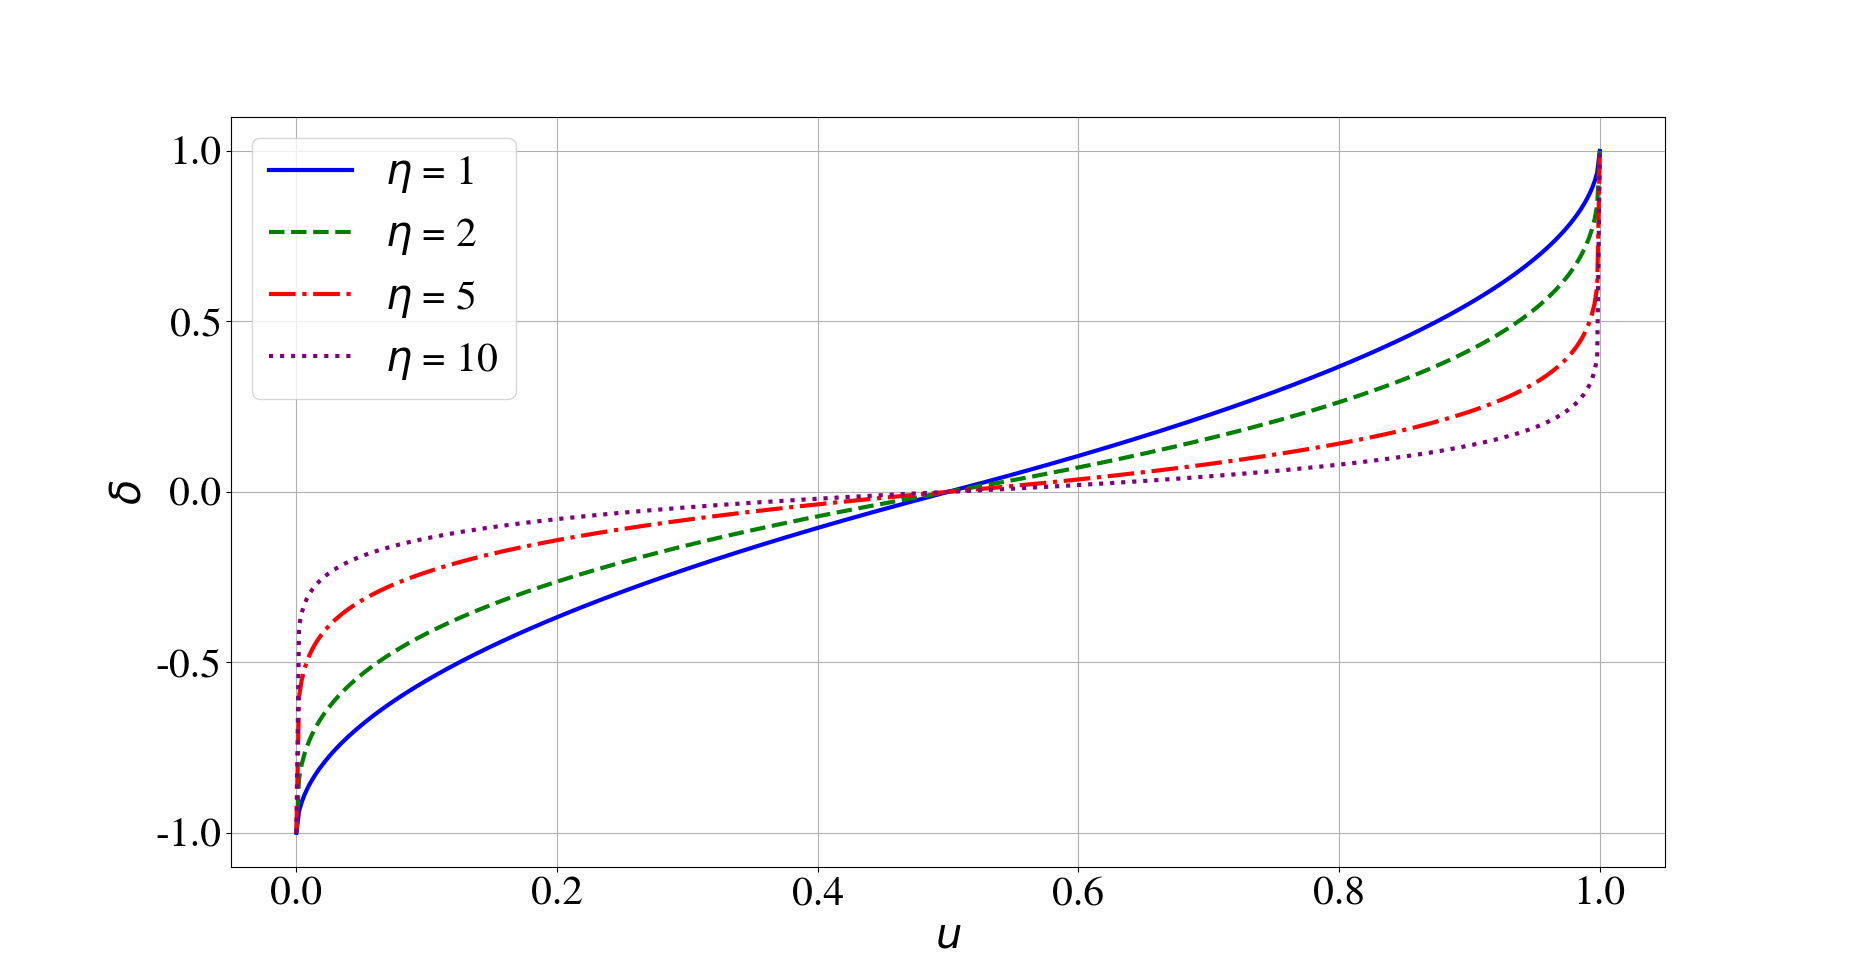
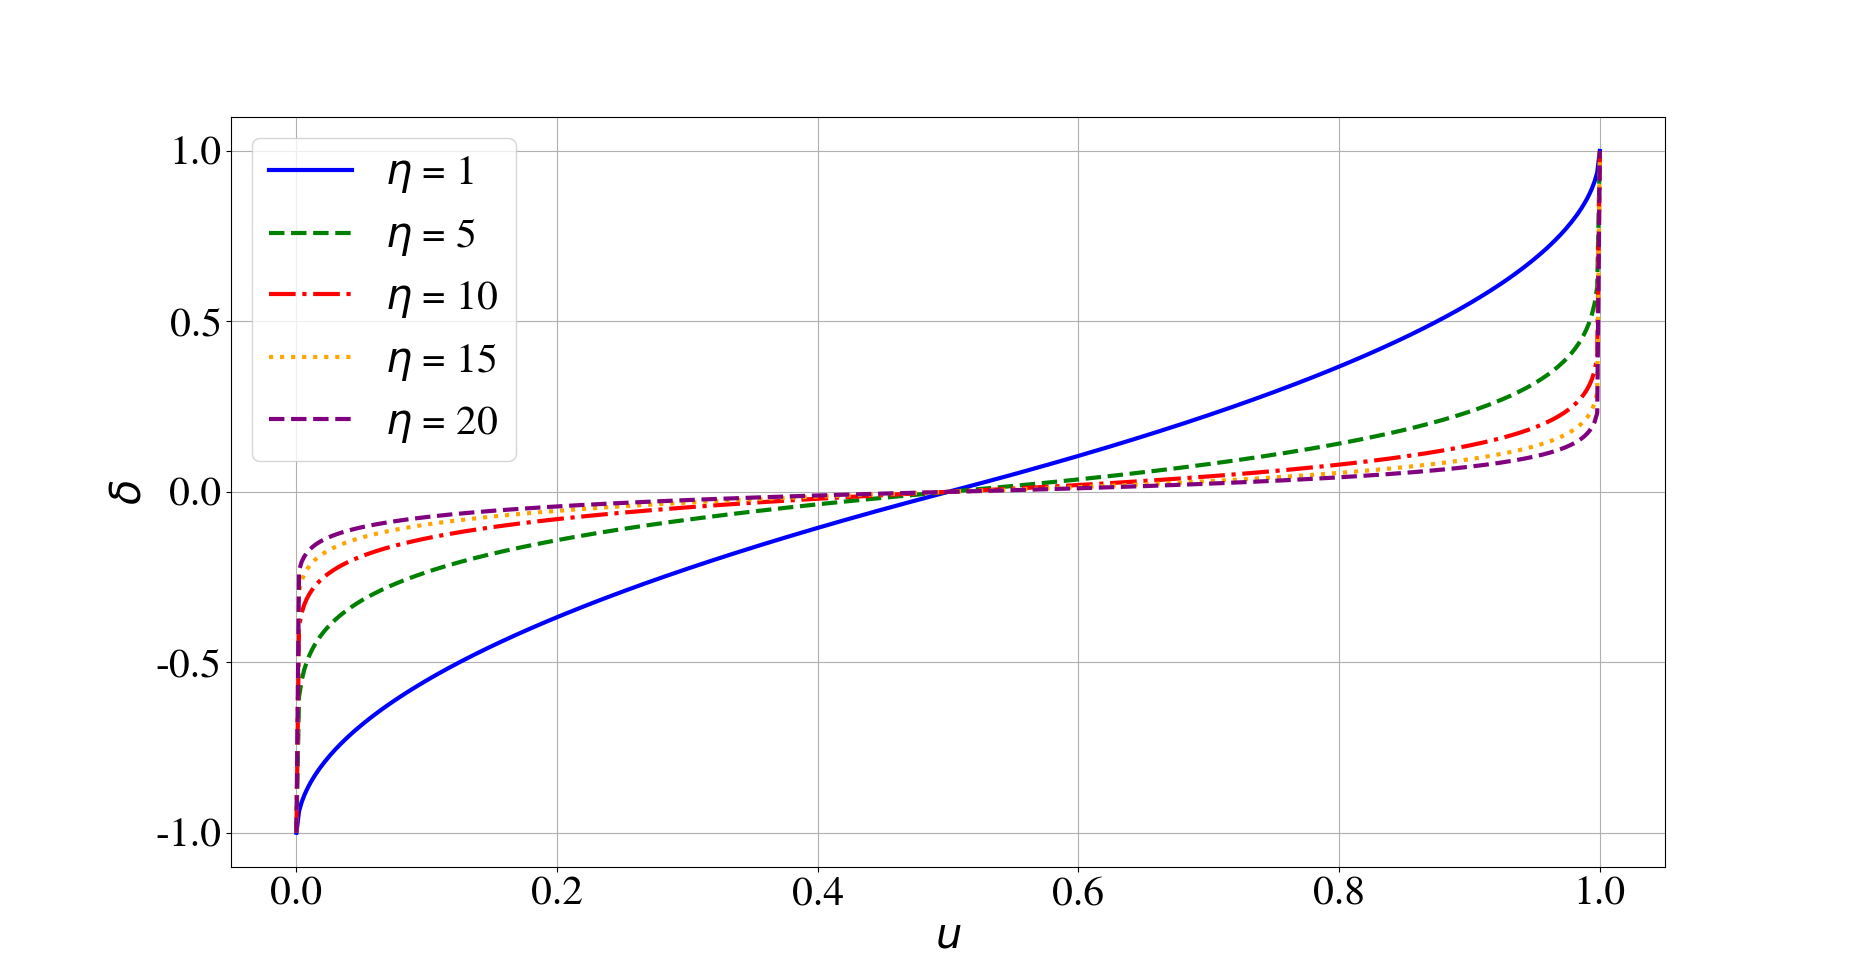
sbx and mutation

diff --git a/sbx/scripts/sbx_beta_u.py b/sbx/scripts/sbx_beta_u.py
@@ -15,7 +15,7 @@ height_inch = width_inch * 2 / 2.54  # cmからインチに変換
 u = np.linspace(0, 1, 500)
 
 # いくつかのetaの値
-eta_values = [5, 10, 20, 50]
+eta_values = [1, 5, 10, 15, 20]
 
 # グラフのサイズを設定
 plt.figure(figsize=(width_inch, height_inch))  # 指定されたサイズで設定
@@ -25,26 +25,32 @@ for eta in eta_values:
     beta = np.where(u <= 0.5, (2 * u) ** (1 / (eta + 1)), (1 / (2 * (1 - u))) ** (1 / (eta + 1)))
     
     # etaに基づいて色と線種を変更
-    if eta == 5:
+    if eta == 1:
         color = 'r'  # 赤
         linestyle = '--'  # 破線
-    elif eta == 10:
+    elif eta == 5:
         color = 'g'  # 緑
         linestyle = ':'  # 点線
-    elif eta == 20:
+    elif eta == 10:
         color = 'b'  # 青
         linestyle = '-'  # 実線
-    elif eta == 50:
-        color = 'm'  # マゼンタ
+    elif eta == 15:
+        color = 'orange'  # マゼンタ
         linestyle = '-.'  # 一点差線
+    elif eta == 20:
+        color = 'm'  # マゼンタ
+        linestyle = ':'  # 一点差線
 
     # プロット
     plt.plot(u, beta, label=f'$\eta$ = {eta}', color=color, linestyle=linestyle, linewidth=3)
 
 # グラフのタイトルとラベル
-plt.xlabel('$u$', fontsize=35)
-plt.ylabel(r'$\beta$', fontsize=35)
+plt.ylim(0, 2.0)
+plt.yticks(np.arange(0.0, 2.1, 0.5))
+
+plt.xlabel('$u$')
+plt.ylabel(r'$\beta$')
 plt.grid(True)
-plt.legend(fontsize=30)
+plt.legend()
 
 plt.show()

diff --git a/mutation/scripts/eta.py b/mutation/scripts/eta.py
@@ -12,10 +12,10 @@ width_inch = width_cm * 2 / 2.54
 height_inch = width_inch * 2 / 2.54
 
 # パラメータ設定
-etas = [1, 2, 5, 10]  # etaの異なる値
+etas = [1, 5, 10, 15, 20]  # etaの異なる値
 u_values = np.linspace(0, 1, 500)  # uの値は0から1までの範囲で500分割
-line_styles = ['-', '--', '-.', ':']  # 異なる線のスタイル
-colors = ['blue', 'green', 'red', 'purple']  # 明るい色の設定
+line_styles = ['-', '--', '-.', ':', '--']  # 異なる線のスタイル
+colors = ['blue', 'green', 'red', 'orange', 'purple']  # 明るい色の設定
 linewidth = 3  # 線の太さ
 
 # グラフの描画
